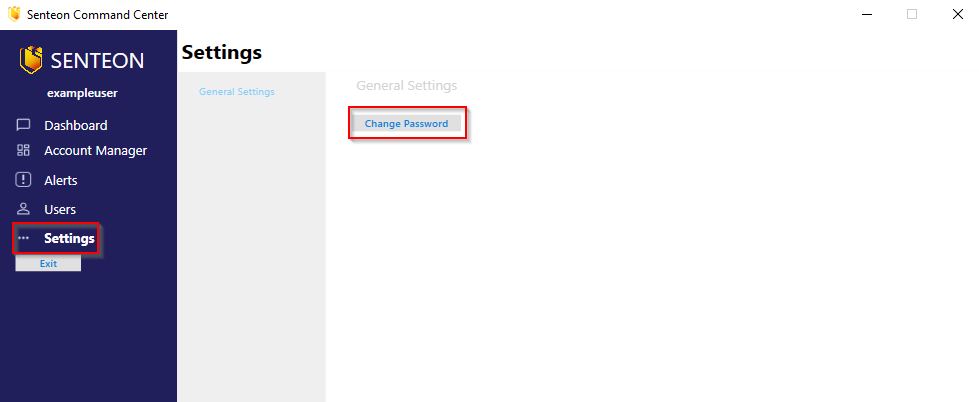
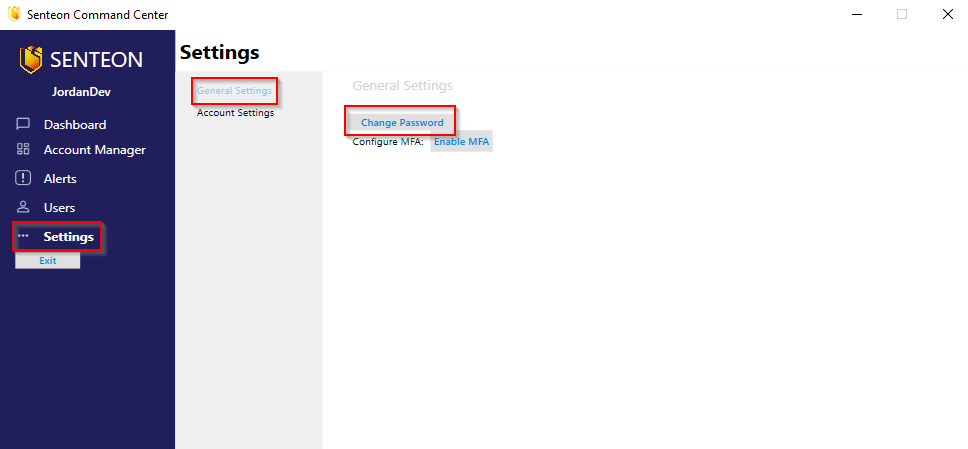
Updates for CC/Agent 1.0.4.15

diff --git a/docs/endpointconfiguration.md b/docs/endpointconfiguration.md
@@ -111,9 +111,11 @@ Senteon provides a variety of information about the Senteon-supported settings t
 
 ## Endpoint/Fleet Management
 
-Senteon Users can observe and manage their fleet of Endpoints in Command Center. When Senteon Agent is installed on an Endpoint, it will register itself with Senteon Master and Command Center. Once registered, it will appear in Command Center under the relevant Managed Account.
+Senteon Users can observe and manage their fleet of Endpoints in Command Center. When Senteon Agent is installed on an Endpoint, it will register itself with Senteon Master and Command Center. Once registered, it will appear in Command Center under the relevant Managed Account and Endpoint Type (Windows 10 Standalone, Domain Member, Unknown).
 
-**Location:** `Managed Account Console > Endpoints (tab) > Endpoints (page)`
+The main `Endpoints` tab will display a listing of all Endpoints no matter what type they are. The sub-tabs will display a listing of all Endpoints of the specified type, and allow you to setup and modify those Endpoints.
+
+**Location:** `Managed Account Console > Endpoints (Endpoint Type) > Endpoints (page)`
 
 <img src="../images/endpoints.PNG" width="750">
 
@@ -175,7 +177,7 @@ All of the possible statuses that Senteon Agent can report are detailed here:
 
 Depending on the current status of a Senteon Agent/Endpoint, different actions can be performed.
 
-**Location:** `Managed Account Console > Endpoints (tab) > Endpoints (page)`
+**Location:** `Managed Account Console > Endpoints (Endpoint Type) > Endpoints (page)`
 
 All of the possible actions are are:
 
@@ -194,7 +196,7 @@ An individual Endpoint's Applied/Target Configuration Set can be modified either
 
 **Location**
 
-`Managed Account Console > Endpoints (tab) > Endpoints (page)`
+`Managed Account Console > Endpoints (Endpoint Type) > Endpoints (page)`
 
 <img src="../images/editEndpoint.png" width="750">
 
@@ -211,7 +213,7 @@ When a Group is selected, all of the target setting values that are different be
 
 **Steps**
 
-1) Navigate to `Managed Account Console > Endpoints (tab) > Endpoints (page)` and click the `Edit` button on the Endpoint you wish to modify
+1) Navigate to `Managed Account Console > Endpoints (Endpoint Type) > Endpoints (page)` and click the `Edit` button on the Endpoint you wish to modify
 
 2) In the new window, select `Edit Groups`
 
@@ -229,7 +231,7 @@ After clicking `Apply Changes`, Senteon will determine if there are any exising 
 
 **Steps**
 
-1) Navigate to `Managed Account Console > Endpoints (tab) > Endpoints (page)` and click the `Edit` button on the Endpoint you wish to modify
+1) Navigate to `Managed Account Console > Endpoints (Endpoint Type) > Endpoints (page)` and click the `Edit` button on the Endpoint you wish to modify
 
 2) In the new window, select `Edit Individual Settings`
 
@@ -243,7 +245,7 @@ After clicking `Apply Changes`, Senteon will determine if there are any exising 
 
 Senteon uses Groups to organize sets of Endpoints and provide the Applied/Target Configuration Set that members of the Group inherit. Each Group can be associated with exactly one (1) Applied/Target Configuration Set, and only Endpoints with the same Endpoint Type/Profile as a Group can become a member (e.g. Windows 10 Standalone).
 
-**Location:** `Managed Account Console > Endpoints (tab) > Groups`
+**Location:** `Managed Account Console > Endpoints (Endpoint Type) > Groups`
 
 There are two (2) different types of Groups:
   

diff --git a/docs/usersandpermissions.md b/docs/usersandpermissions.md
@@ -64,7 +64,7 @@ When logging in as user for the first time, you will be prompted to create a new
 
 <img src="../images/Modify User.png" width="750">
 
-## Modifying a User Role
+### Modifying a User's Role
 
 1) Log into Command Center and navigate to the Users tab
 
@@ -76,6 +76,30 @@ When logging in as user for the first time, you will be prompted to create a new
 
 <img src="../images/Modify User Permissions.png" width="750">
 
+### Enabling MFA for Current User
+
+1) Log into Command Center as the user and navigate to the Settings tab
+
+2) Navigate to General Settings and click `Enable MFA`
+
+3) Open your Authenticator App and scan the QR code, then close the window
+
+> *Alternatively you can enter the secret key manually.*
+
+4) Enter the 6 digit TOTP from the Authenticator App and click the `Submit` button to verify and complete MFA setup
+
+<img src="../images/EnableMFA.png" width="750">
+
+### Disabling MFA for Current User
+
+1) Log into Command Center as the user and navigate to the Settings tab
+
+2) Navigate to General Settings and click `Disable MFA`
+
+3) Enter the 6 digit TOTP from the Authenticator App and click the `Submit` button to verify and disable MFA
+
+<img src="../images/DisableMFA.png" width="750">
+
 ## Deleting Users
 
 1) Log into Command Center and navigate to the Users tab
@@ -85,3 +109,4 @@ When logging in as user for the first time, you will be prompted to create a new
 3) Confirm that you wish to delete the user
 
 <img src="../images/Delete User.png" width="750">
+

diff --git a/docs/troubleshooting.md b/docs/troubleshooting.md
@@ -1,0 +1,38 @@
+# Toubleshooting
+
+In the event that you run into an issue during the operation of Senteon. There are basic troubleshooting steps that you can follow that may help solve your problem.
+
+## Senteon Agent
+
+### Restart Senteon Agent Service
+
+If an Agent/Endpoint is not responding as expected, often times restarting the `Senteon Agent` service using Windows' Services.msc tool will force resyncronization and solve the problem.
+
+### Senteon Agent Event Logs
+
+Event Logs for Senteon Agent can be found in Windows Event Viewer under:
+
+`Applications and Services Logs > Senteon`
+
+<img src="../images/SenteonAgentEventLog.png" width="250">
+
+## Senteon Command Center
+
+### Reset Local Account Databases
+
+If Command Center is not working as expected, often times resetting a Managed Account's database will force a resyncronization and solve the problem.
+
+1. In the Master Account Console, navigate to `Settings > Account Settings`
+
+2. Select the Managed Account that is having issues and click the `Reset Database` button
+
+<img src="../images/CCResetLocalAccountDB.png" width="750">
+
+
+### Senteon Command Center Event Logs
+
+Event Logs for Senteon Command Center can be found in Windows Event Viewer under:
+
+`Windows Logs > Application`
+
+<img src="../images/SenteonCCEventLog.png" width="250">

diff --git a/docs/index.md b/docs/index.md
@@ -40,7 +40,7 @@ Senteon recommends reading the sections below for key concepts and install instr
 Senteon has provided you with:
 
 - Installer for Senteon Command Center
-- Master Account Credentials for Senteon Command Center
+- Master Account credentials for Senteon Command Center
 
 Senteon installation is divided into two separate stages that use different installers. The provided installer is for Command Center, the administrator console. 
 
@@ -123,7 +123,7 @@ Inside the Command Center install directory (`C:\Program Files\Senteon\CommandCe
 After the installation is complete, the "Senteon Agent" service will be running on the endpoint. This service is configured to automatically restart if the computer is rebooted.
 
 #### Senteon Agent Command-line Install
-Senteon Agent can be installed using Msiexec. All available flags can be found in the MsiExec documentation. The Senteon recommended install command flags can be found below.
+Senteon Agent can be installed using Msiexec. All additional non-Senteon specific flags can be found in MsiExec's documentation. The Senteon recommended install command flags can be found below.
 
 **Install Flags**
 

diff --git a/docs/settings.md b/docs/settings.md
@@ -12,11 +12,27 @@ Location: `Master Account Console > Settings`
 ### General Settings
 
 ---
-#### Change Password
+#### (Button) Change Password
 
-This provides a logged-in user with the ability to change their own password. This functionality is available to all users except for the Master Account/Owner User.
+This provides a logged-in user with the ability to change their own password.
 
-*Note: To change the Master Account/Owner User's password, contact Senteon Support*
+
+---
+#### (Button) Enable / Disable MFA
+
+This provides a logged-in user with the ability to enable or disable Multi-factor Authentication for themselves.  
+
+Senteon currently supports MFA using an Authenticator Application such as Google Authenticator or Authy.
+
+
+---
+
+### Account Settings
+
+---
+#### (Button) Select Local Account Database to Reset
+
+This provides a logged-in user with the ability to manually re-syncronize the local databases for Managed Accounts.
 
 ---
 

diff --git a/docs/updates.md b/docs/updates.md
@@ -1,0 +1,23 @@
+# Senteon Updates
+
+This section describes how updates/patches work for Senteon.
+
+Updates will be served from the domain `updates.senteon.co`.
+
+
+## Senteon Agent
+
+Senteon Agents are configured to automatically update when a new version is available. Senteon Users do not need to worry about manually updating their Agents.
+
+## Senteon Command Center
+
+When a new version of Command Center is available, a notification will appear in the Master Account Console's Dashboard.
+
+Location: `Managed Account Console > Dashboard`
+
+**Steps**
+
+1) Navigate to `Managed Account Console > Dashboard` and click the update button
+
+2) Accept the UAC prompt. 
+> *Command Center will close and restart once the update has been installed*

diff --git a/docs/technicaldetails.md b/docs/technicaldetails.md
@@ -20,7 +20,7 @@ This section describes technical details about Senteon.
 
 **Senteon Command Center Size**
 
-- Required Disk Space: 29.2 MB
+- Required Disk Space: 29.4 MB
 - Avg. Memory Usage: 50-70 MB
 
 
